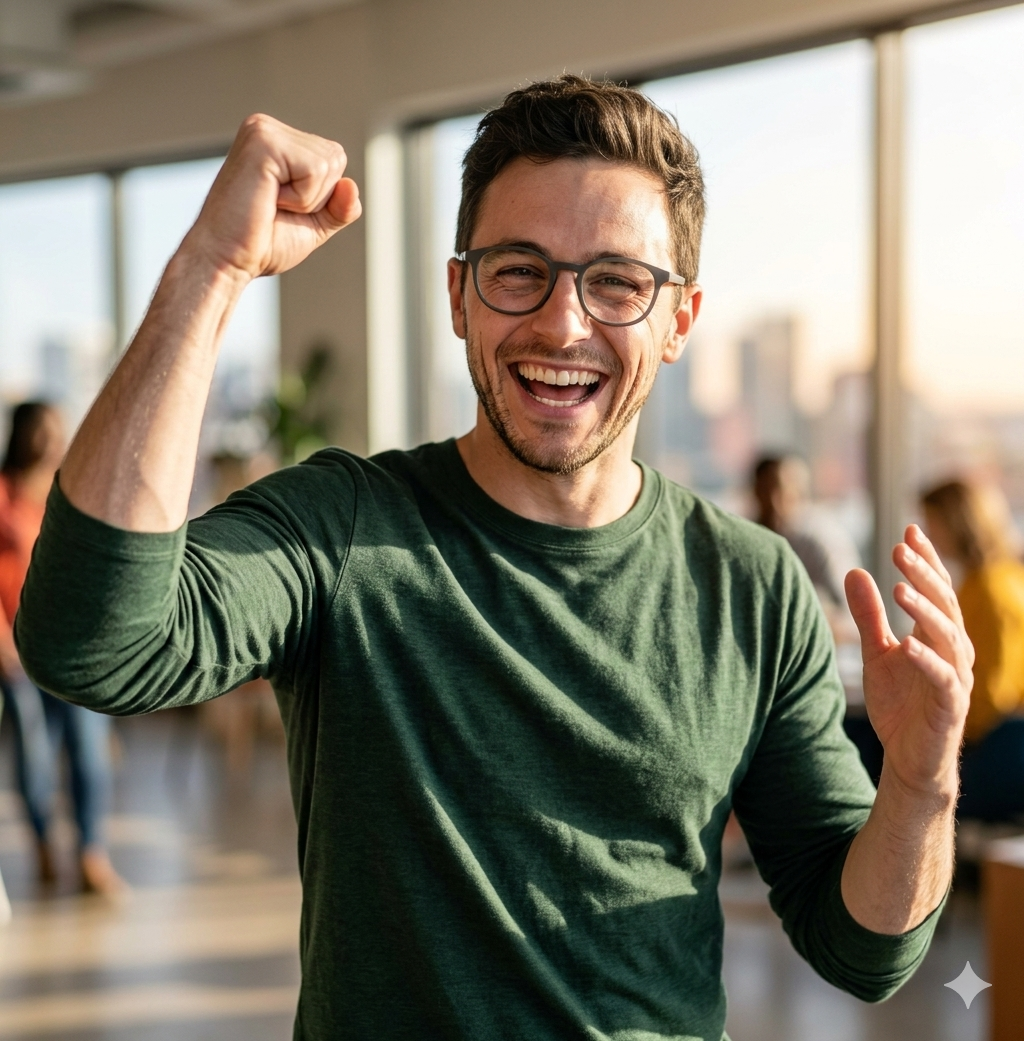
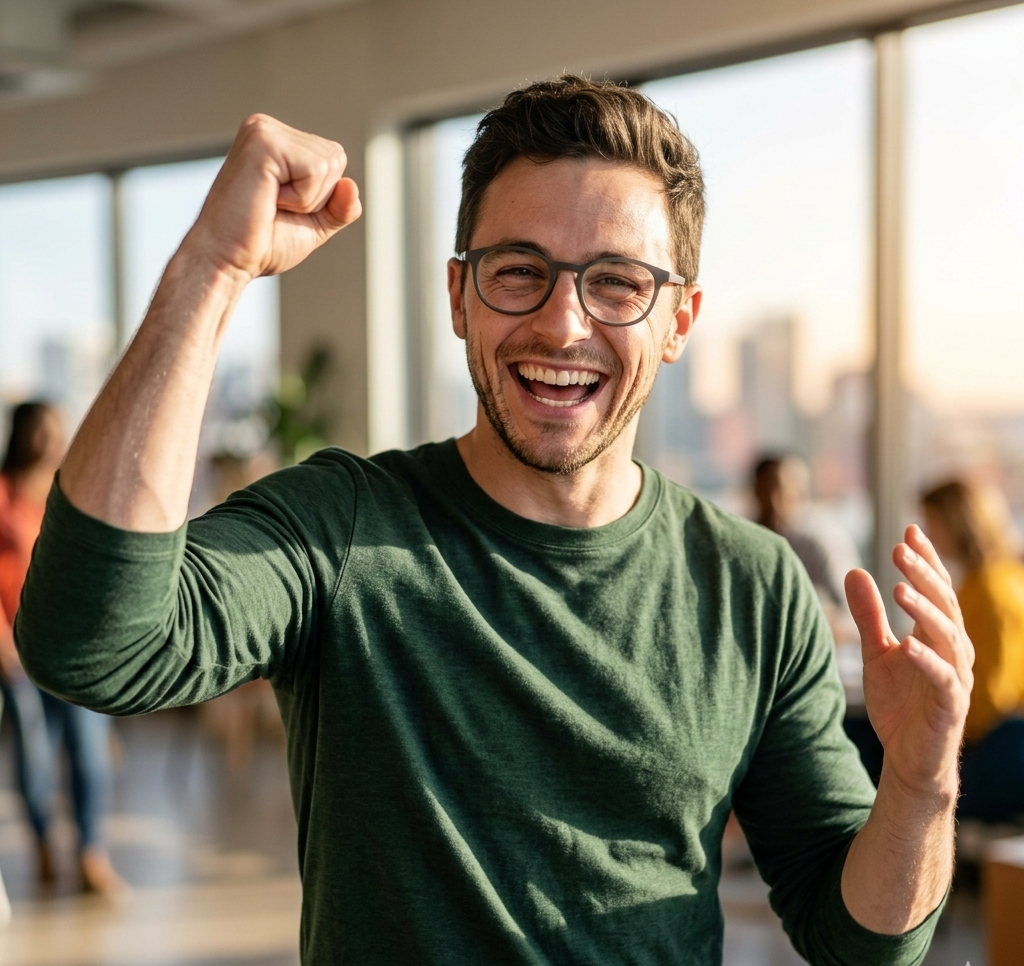
Success: Replaced Before/After images with the final watermark-free versions and restored clean CSS framing.

diff --git a/src/components/quiz/OfferScreen.tsx b/src/components/quiz/OfferScreen.tsx
@@ -121,7 +121,7 @@ export default function OfferScreen({ name, mainDifficulty, mainGoal, commitment
             <img 
               src={gender === 'hombre' ? '/antes_hombre.png' : gender === 'mujer' ? '/antes_mujer.png' : '/antes_mujer.png'} 
               alt="Antes" 
-              className="w-full h-full object-cover scale-[1.12] translate-x-[-2%] translate-y-[-2%] pointer-events-none"
+              className="w-full h-full object-cover"
             />
             <div className="absolute inset-0 bg-black/5" />
           </div>
@@ -146,7 +146,7 @@ export default function OfferScreen({ name, mainDifficulty, mainGoal, commitment
             <img 
               src={gender === 'hombre' ? '/despues_hombre.png' : gender === 'mujer' ? '/despues_mujer.png' : '/despues_mujer.png'} 
               alt="Después" 
-              className="w-full h-full object-cover scale-[1.12] translate-x-[-2%] translate-y-[-2%] pointer-events-none"
+              className="w-full h-full object-cover"
             />
           </div>
           <div className="space-y-3">
